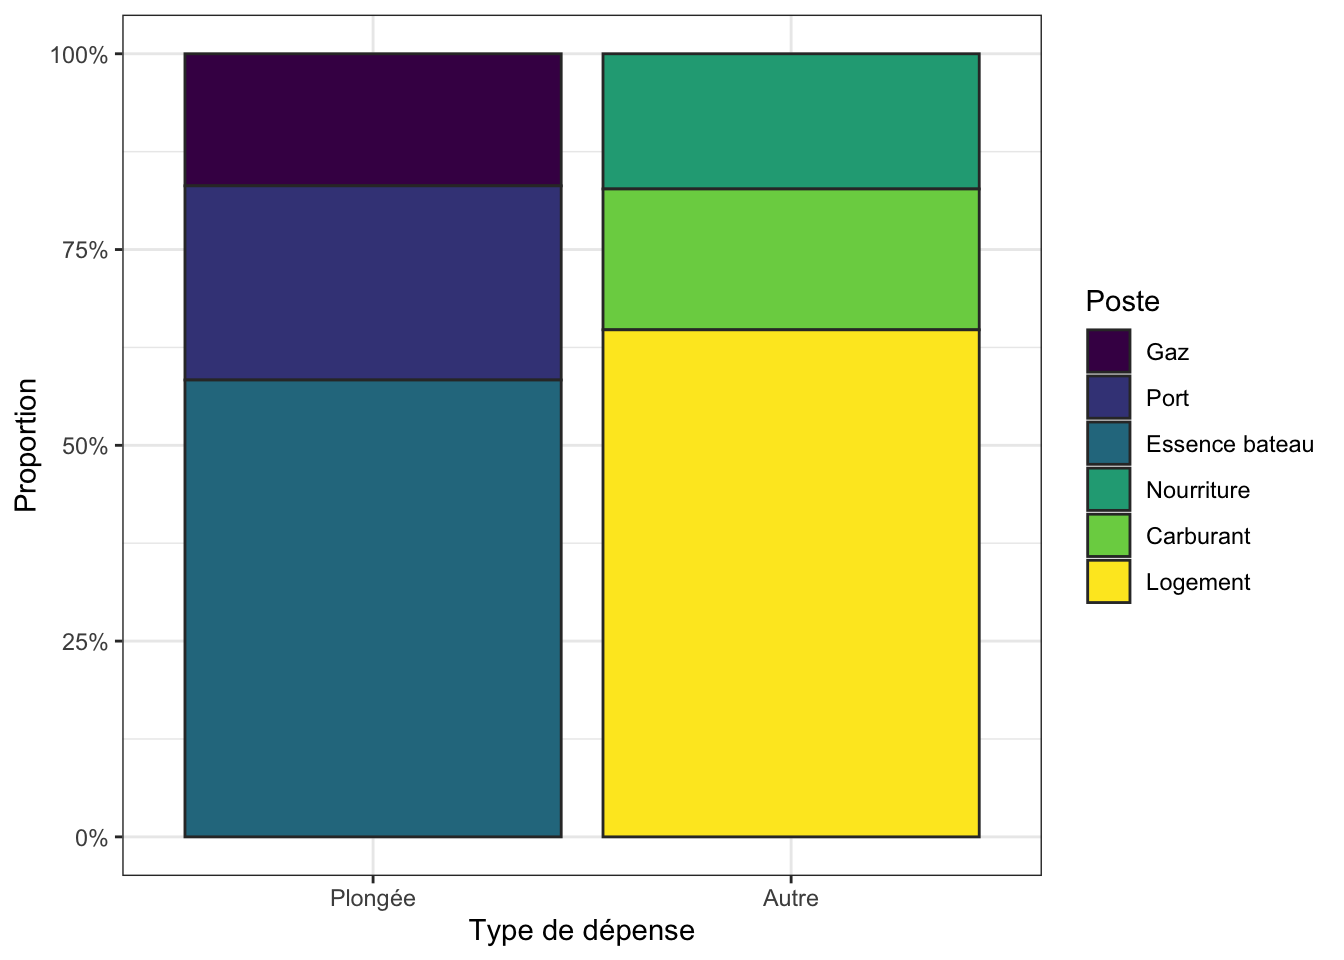
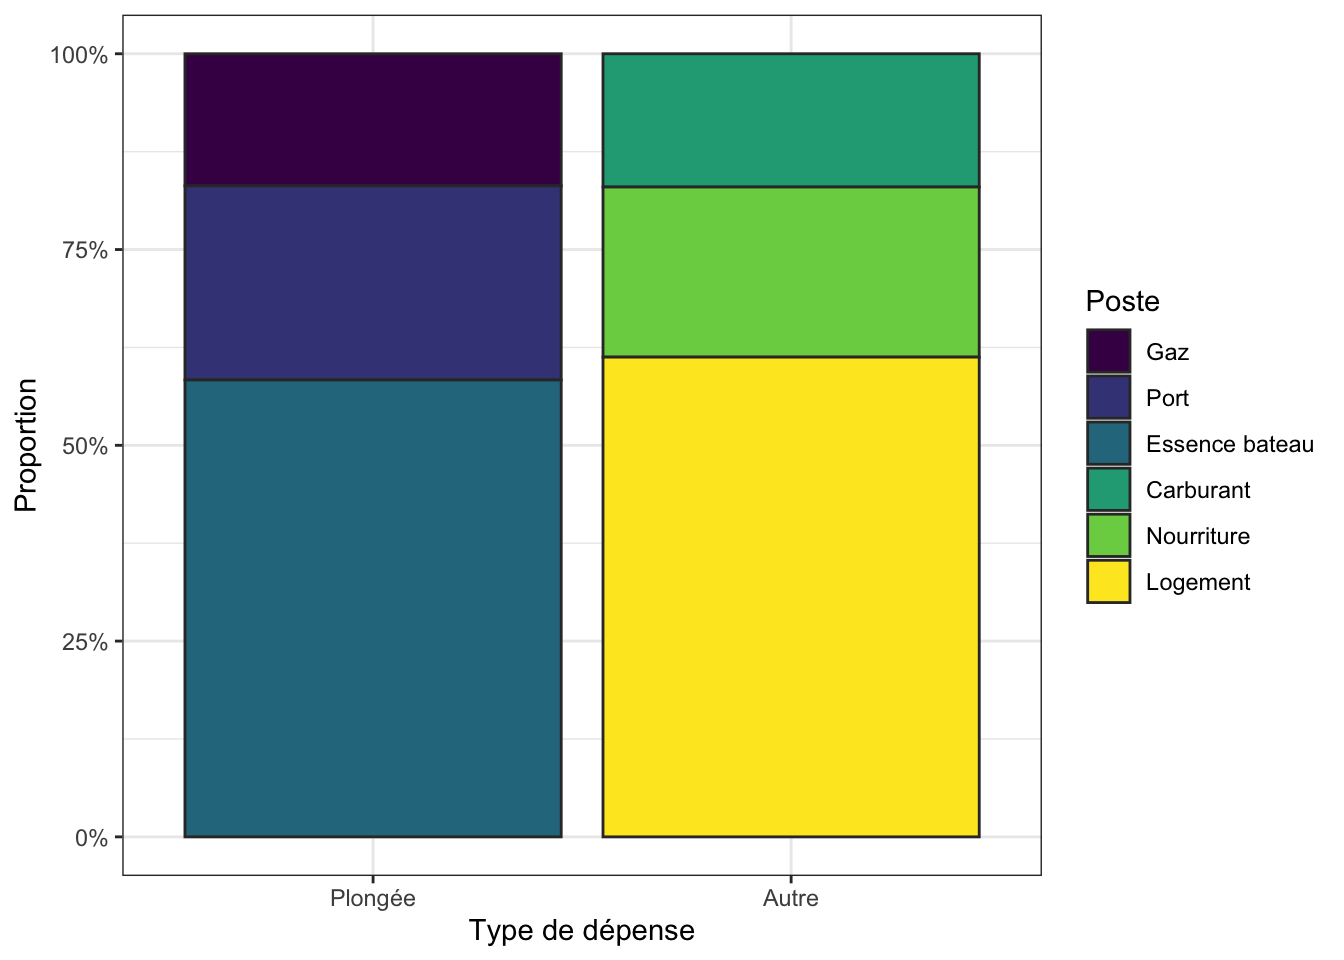
Courses lundi Camaret

Changed region(s): [[0.4375, 0.3438, 0.75, 0.375], [0.4375, 0.1875, 0.7188, 0.2188], [0.8438, 0.5, 0.9375, 0.5625]]

diff --git a/docs/Camaret2026.html b/docs/Camaret2026.html
@@ -683,12 +683,12 @@ Table&nbsp;4: Dépenses hors plongées engagées par les participants à la sort
 <tr class="even">
 <td style="text-align: right;">Carole</td>
 <td style="text-align: right;">200.00€</td>
-<td style="text-align: right;">241.86€</td>
+<td style="text-align: right;">386.08€</td>
 <td style="text-align: right;">0.00€</td>
 <td style="text-align: right;">0€</td>
 <td style="text-align: right;">0€</td>
 <td style="text-align: right;">0€</td>
-<td style="text-align: right;">441.86€</td>
+<td style="text-align: right;">586.08€</td>
 </tr>
 <tr class="odd">
 <td style="text-align: right;">Pierre</td>
@@ -723,12 +723,12 @@ Table&nbsp;4: Dépenses hors plongées engagées par les participants à la sort
 <tr class="even">
 <td style="text-align: right; font-weight: bold;">Total</td>
 <td style="text-align: right; font-weight: bold;">1,640.80€</td>
-<td style="text-align: right; font-weight: bold;">437.50€</td>
+<td style="text-align: right; font-weight: bold;">581.72€</td>
 <td style="text-align: right; font-weight: bold;">455.72€</td>
 <td style="text-align: right; font-weight: bold;">0€</td>
 <td style="text-align: right; font-weight: bold;">0€</td>
 <td style="text-align: right; font-weight: bold;">0€</td>
-<td style="text-align: right; font-weight: bold;">2,534.02€</td>
+<td style="text-align: right; font-weight: bold;">2,678.24€</td>
 </tr>
 </tbody>
 </table>
@@ -811,7 +811,7 @@ Table&nbsp;6: Coûts unitaires par personne
 <tbody>
 <tr class="odd">
 <td style="text-align: right;">29.30€</td>
-<td style="text-align: right;">2.60€</td>
+<td style="text-align: right;">3.46€</td>
 <td style="text-align: right;">56.96€</td>
 </tr>
 </tbody>
@@ -871,13 +871,13 @@ Table&nbsp;7: Bilan des coûts par plongeur et par poste
 </tr>
 <tr class="odd">
 <td style="text-align: right;">Nourriture</td>
-<td style="text-align: right;">54.69€</td>
-<td style="text-align: right;">54.69€</td>
-<td style="text-align: right;">54.69€</td>
-<td style="text-align: right;">54.69€</td>
-<td style="text-align: right;">109.38€</td>
-<td style="text-align: right;">54.69€</td>
-<td style="text-align: right;">54.69€</td>
+<td style="text-align: right;">72.72€</td>
+<td style="text-align: right;">72.72€</td>
+<td style="text-align: right;">72.72€</td>
+<td style="text-align: right;">72.72€</td>
+<td style="text-align: right;">145.43€</td>
+<td style="text-align: right;">72.72€</td>
+<td style="text-align: right;">72.72€</td>
 </tr>
 <tr class="even">
 <td style="text-align: right; border-bottom: 1px solid;">Carburant</td>
@@ -891,13 +891,13 @@ Table&nbsp;7: Bilan des coûts par plongeur et par poste
 </tr>
 <tr class="odd">
 <td style="text-align: right; font-weight: bold;">Total</td>
-<td style="text-align: right; font-weight: bold;">434.07€</td>
-<td style="text-align: right; font-weight: bold;">404.74€</td>
-<td style="text-align: right; font-weight: bold;">434.07€</td>
-<td style="text-align: right; font-weight: bold;">404.74€</td>
-<td style="text-align: right; font-weight: bold;">750.82€</td>
-<td style="text-align: right; font-weight: bold;">404.74€</td>
-<td style="text-align: right; font-weight: bold;">434.07€</td>
+<td style="text-align: right; font-weight: bold;">452.10€</td>
+<td style="text-align: right; font-weight: bold;">422.77€</td>
+<td style="text-align: right; font-weight: bold;">452.10€</td>
+<td style="text-align: right; font-weight: bold;">422.77€</td>
+<td style="text-align: right; font-weight: bold;">786.88€</td>
+<td style="text-align: right; font-weight: bold;">422.77€</td>
+<td style="text-align: right; font-weight: bold;">452.10€</td>
 </tr>
 </tbody>
 </table>
@@ -923,37 +923,37 @@ Table&nbsp;7: Bilan des coûts par plongeur et par poste
 <tr class="odd">
 <td style="text-align: right;">Pierre</td>
 <td style="text-align: right;">rembourse à l'AP</td>
-<td style="text-align: right;">192.94€</td>
+<td style="text-align: right;">228.99€</td>
 </tr>
 <tr class="even">
 <td style="text-align: right;">Thomas</td>
 <td style="text-align: right;">rembourse à l'AP</td>
-<td style="text-align: right;">3.80€</td>
+<td style="text-align: right;">21.83€</td>
 </tr>
 <tr class="odd">
 <td style="text-align: right;">Yannick</td>
 <td style="text-align: right;">rembourse à l'AP</td>
-<td style="text-align: right;">434.07€</td>
+<td style="text-align: right;">452.10€</td>
 </tr>
 <tr class="even">
 <td style="text-align: right;">Baptiste</td>
 <td style="text-align: right;">se fait rembourser par l'AP</td>
-<td style="text-align: right;">61.11€</td>
+<td style="text-align: right;">43.08€</td>
 </tr>
 <tr class="odd">
 <td style="text-align: right;">Benoît</td>
 <td style="text-align: right;">se fait rembourser par l'AP</td>
-<td style="text-align: right;">199.61€</td>
+<td style="text-align: right;">181.58€</td>
 </tr>
 <tr class="even">
 <td style="text-align: right;">Carole</td>
 <td style="text-align: right;">se fait rembourser par l'AP</td>
-<td style="text-align: right;">165.12€</td>
+<td style="text-align: right;">291.31€</td>
 </tr>
 <tr class="odd">
 <td style="text-align: right;">Jean-Claude</td>
 <td style="text-align: right;">se fait rembourser par l'AP</td>
-<td style="text-align: right;">129.93€</td>
+<td style="text-align: right;">111.90€</td>
 </tr>
 </tbody>
 </table>
@@ -977,7 +977,7 @@ Table&nbsp;7: Bilan des coûts par plongeur et par poste
 <section id="journal-de-bord" class="level2">
 <h2 class="anchored" data-anchor-id="journal-de-bord">Journal de bord</h2>
 <p><strong>Dimanche 19 juillet</strong>. Nous avons attaqué la semaine par le Kléber, le classique de Camaret. C’est toujours aussi gros, mais ça s’affaisse gentiment. Et c’était très sombre, en raison d’un gros tapis d’algues brunes sur toute une partie de l’épave. Les homards et langoustes sont nombreux, mais personne n’était très enthousiaste en raison de l’ambiance générale que nous avons connu bien plus belle sur cette épave. Baptiste, qui était de sécu surface avec Calude a gagné le concours de bulles : après immersion, il a dû remonter sur le bateau pour régler un problème de fuite sur son détendeur oxy. Il a aussi des microbulles partout (détendeurs, manos, injecteurs…) : grosse commande de swivels en perspective. Les nettoyages au vinaigre blanc de l’hiver ont été très efficaces ! En remettant son recycleur sur le dos, il s’est à moitié arraché l’épaule gauche : petite pensée pour Nath en ce jour d’anniversaire ! Il a finalement pu se remettre à l’eau. Calude a poireauté 15 minutes en surface en claquant des dents. Il était bleu en sortant de l’eau une heure plus tard. On avait prévu la glacière et un deuxième bi pour Carole, ce qui nous a évité de rentrer au port à midi. Et c’est tant mieux car Calude et Baptiste sont sortis de l’eau à 12h30. Nous avons donc mangé au soleil, en remplissant tranquillement nos combis étanches de transpiration. Environ une heure avant l’étale, Carole, Thomas et moi avons basculé pour assurer le mouillage sur le Kenil Worth. Très vite à la descente, nous nous sommes rendus compte que le courant allait être très fort. Carole est rapidement remontée, mais le plomb, coincé à 40m, nous a obligés à descendre. La lutte fut âpre, mais nous y sommes parvenus à la force des bras au bout de plus de 10 minutes de descente. Arrivé au fond, l’ambiance de sable blanc et les langoustes faisaient envie, mais comme nous sommes très raisonnables, on a simplement renvoyé le plomb avant de remonter. Sur la bateau, on a enfin sorti la carte SHOM (bonne idée de faire ça après coup…) pour constater que dans le coin, il est difficile (impossible ?) de plonger à l’étale de basse mer en période de vives eaux (or, nous sommes encore en vives eaux jusqu’à demain). Pour nos 4 compères, nous nous sommes donc rabattus sur le Swansea, en prenant soin de prévenir “Brest approche” à la VHF (canal 16, puis bascule sur canal 8, 2 fois 4). Le Swansea relevant du secteur “Saint Matthieu”, on a contacté Saint Matthieu sur le canal 10, unité zéro. Moralité : ne pas s’emmerder à contacter qui que ce soit quand on plonge sur le Swansea : tout le monde s’en fout. La plongée était belle, mais avec pas mal de jus au fond également. Même l’arrière de l’épave est écrasé, mais il y a de la vie. De retour au port, sur le parking en épis, un bon coup de vent a fermement ouvert la porte arrière droite du Ducato, qui est venue s’encastrer délicatement dans l’aile arrière gauche d’un gros SUV VW, garé un peu trop près. En avant pour le constat, car ça s’est presque fait sous les yeux des propriétaires. Retour à la location à 19h00 : gonflage, séchage, bricolage, douches… On attaque l’apéro à 21h45, en appelant Nath… Pour ma part, je suis cramoisi !</p>
-<p><strong>Lundi 20 juillet 2026</strong>. Réveil de bonne heure après une bonne nuit de sommeil, suffisamment fraiche pour être réparatrice, en dépit des ronflements de Thomas. Départ à la journée à nouveau. Superbe plongée sur le Kénilworth le matin, et sans aucun jus (étale de PM, coef 69). Très clair, très poissonneux, beaucoup de homards et encore plus de langoustes. Pour moi, nouveau record de nombre de langoustes dans le même champ visuel : 18 d’un coup, entre l’hélice et le safran. Très belle ambiance, tout le monde a beaucoup apprécié. À la sortie de l’eau, on a perdu Calude pendant quelques secondes : il était en surface, CCR déséquipé. On s’approchait de lui pour le sortir de l’eau, quand il a disparu quelques secondes ! Sa stab s’est vidée, il était encore accroché au recycleur par la console (au poignet), il a donc fait une petite apnée le temps de regonfler sa stab… Pique-nique sur le bateau, un peu moins irrespirable que la veille, et parce qu’on s’améliore de jour en jour, on a même eu le temps pour la sieste digestive en plein soleil. Le vent s’est levé assez fort en début d’après-midi. La peur du courant de la veille nous a incité à temporiser avant la mise à l’eau sur le Forest Castle. En fait, pas du tout de jus. Par contre, visi vraiment pas terrible par rapport à la plongée de 2024, et peu de poissons, à part au niveau des blocs moteur/chaudière. Pedro a fini au parachute car un peu paumé sur l’épave, et son bloc de 1 litre était à sec, donc plus d’air dans la stab ni dans la combi étanche. Baptiste et détesté et juré ses grands Dieux qu’il n’y remettra pas les pieds. On verra bien !… De mon cô†é, j’ai promené un bel oursin pendant presque une heure, jusqu’au palier où j’ai croisé Baptiste et Calude qui descendaient. L’ADV de Calude lui fait des misères, donc il a eu du mal à descendre. Il a dû tirer fort sur le bout (qui, à sa décharge, était vraiment très horizontal), nous nous sommes amoureusement entrechoqués, et mon oursin ne s’en est pas remis. Le retour fut pour le moins musclé : clapot plus que naissant et vent dans le nez. Retour au port un peu plus tôt que la veille : gonflage pour les uns, courses pour les autres. Et enfin, apéro à 21h15.</p>
+<p><strong>Lundi 20 juillet 2026</strong>. Réveil de bonne heure après une bonne nuit de sommeil, suffisamment fraiche pour être réparatrice, en dépit des ronflements de Thomas. Départ à la journée à nouveau. Superbe plongée sur le Kénilworth le matin, et sans aucun jus cette fois (étale de PM, coef 69). Très clair, très poissonneux, beaucoup de homards et encore plus de langoustes. Nouveau record de nombre de langoustes dans le même champ visuel : 18 d’un coup, entre l’hélice et le safran. Très belle ambiance de sable blanc, banc de tacauds, hélice et hélice de rechange, ancres, gros congres et petites crevettes… Tout le monde a beaucoup apprécié. À la sortie de l’eau, on a perdu Calude pendant quelques secondes : il était en surface, CCR déséquipé en attendant le bateau. On s’approchait de lui pour le sortir de l’eau, quand il a disparu quelques secondes ! Sa stab s’est vidée pour une raison inconnue, il était encore accroché au recycleur par la console (au poignet), qui l’a donc promptement entraîné vers le fond. Il a donc fait une petite apnée le temps de regonfler sa stab… Pas de noyade mais un bon début de crampe dans la jambe droite ! Pique-nique gastronomique (jambon, saucisson, pâté, corps gras, fromage et chocolat, mais aussi taboulé, tomates et carottes râpées) sur le bateau, un peu moins irrespirable que la veille, et parce qu’on s’améliore de jour en jour, on a même eu le temps pour la sieste digestive en plein soleil. Le vent s’est levé assez fort en début d’après-midi. La peur du courant de la veille nous a incité à temporiser avant la mise à l’eau sur le Forest Castle. En fait, pas du tout de jus. Par contre, visi vraiment pas terrible par rapport à la plongée de 2024, et peu de poissons, à part au niveau des blocs moteur/chaudière. Pedro a fini au parachute car un peu paumé sur l’épave, et son bloc de 1 litre était à sec, donc plus d’air dans la stab ni dans la combi étanche. Baptiste et détesté et juré ses grands Dieux qu’il n’y remettra pas les pieds. On verra bien !… De mon côté, j’ai promené un bel oursin pendant presque une heure, jusqu’au palier où j’ai croisé Baptiste et Calude qui descendaient. L’ADV de Calude lui fait des misères, donc il a eu du mal à descendre. Il a dû tirer fort sur le bout (qui, à sa décharge, était vraiment très horizontal), nous nous sommes amoureusement entrechoqués, et mon oursin ne s’en est pas remis. Le retour au port fut pour le moins musclé : clapot plus que naissant et vent dans le nez. Thomas a fait des merveilles au cerceau : ça n’a presque pas tapé, ça n’a presque pas rincé. Retour au port un peu plus tôt que la veille : gonflage pour les uns, courses pour les autres. Et enfin, apéro à 21h15.</p>
 </section>
 <section id="quelques-graphiques" class="level2">
 <h2 class="anchored" data-anchor-id="quelques-graphiques">Quelques graphiques</h2>